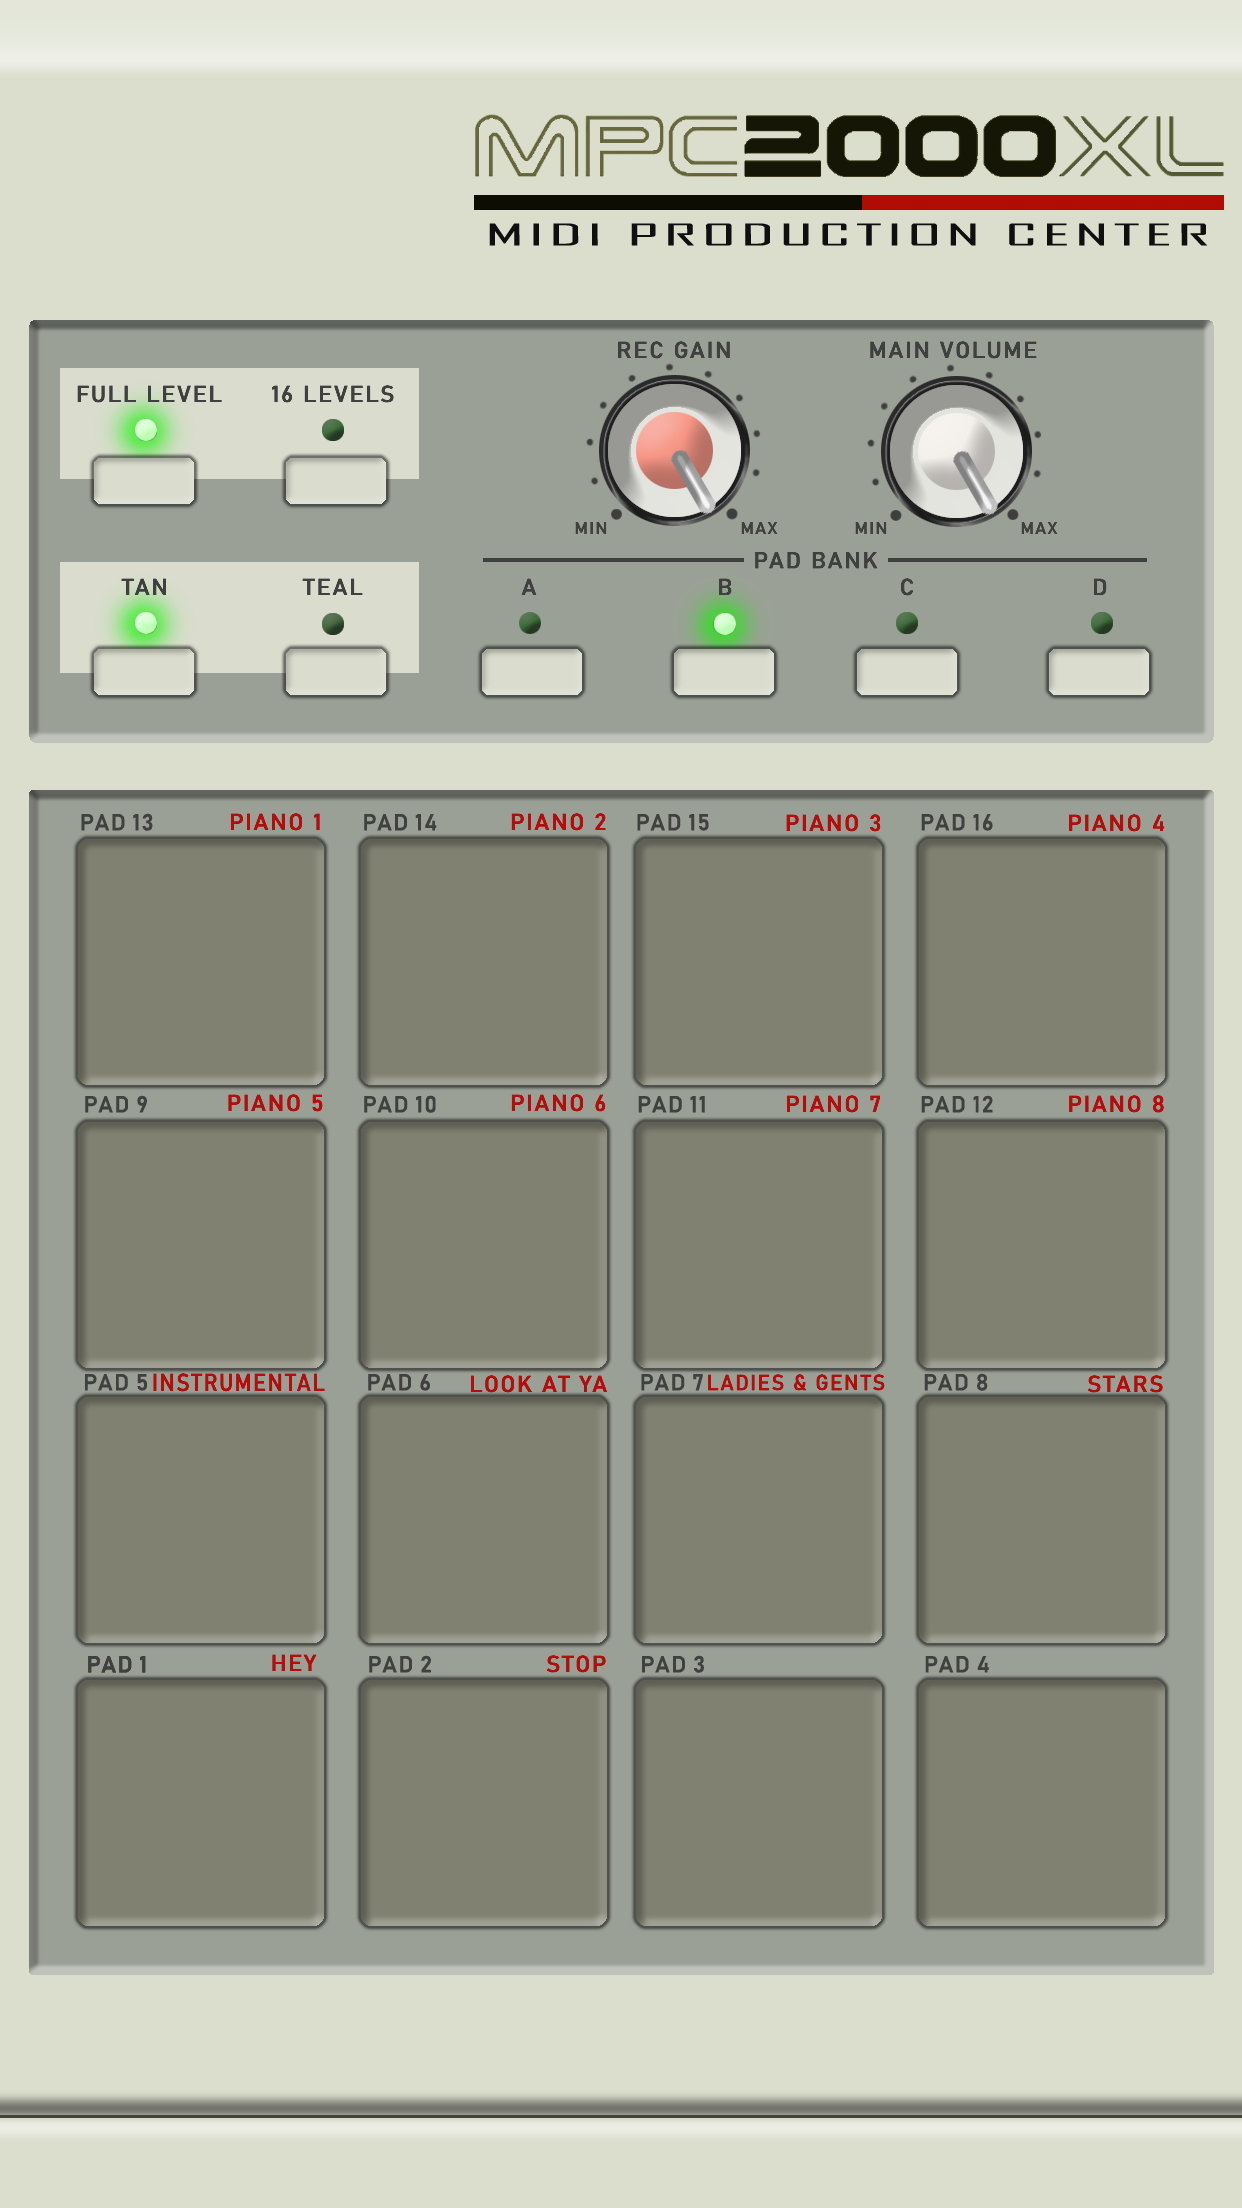
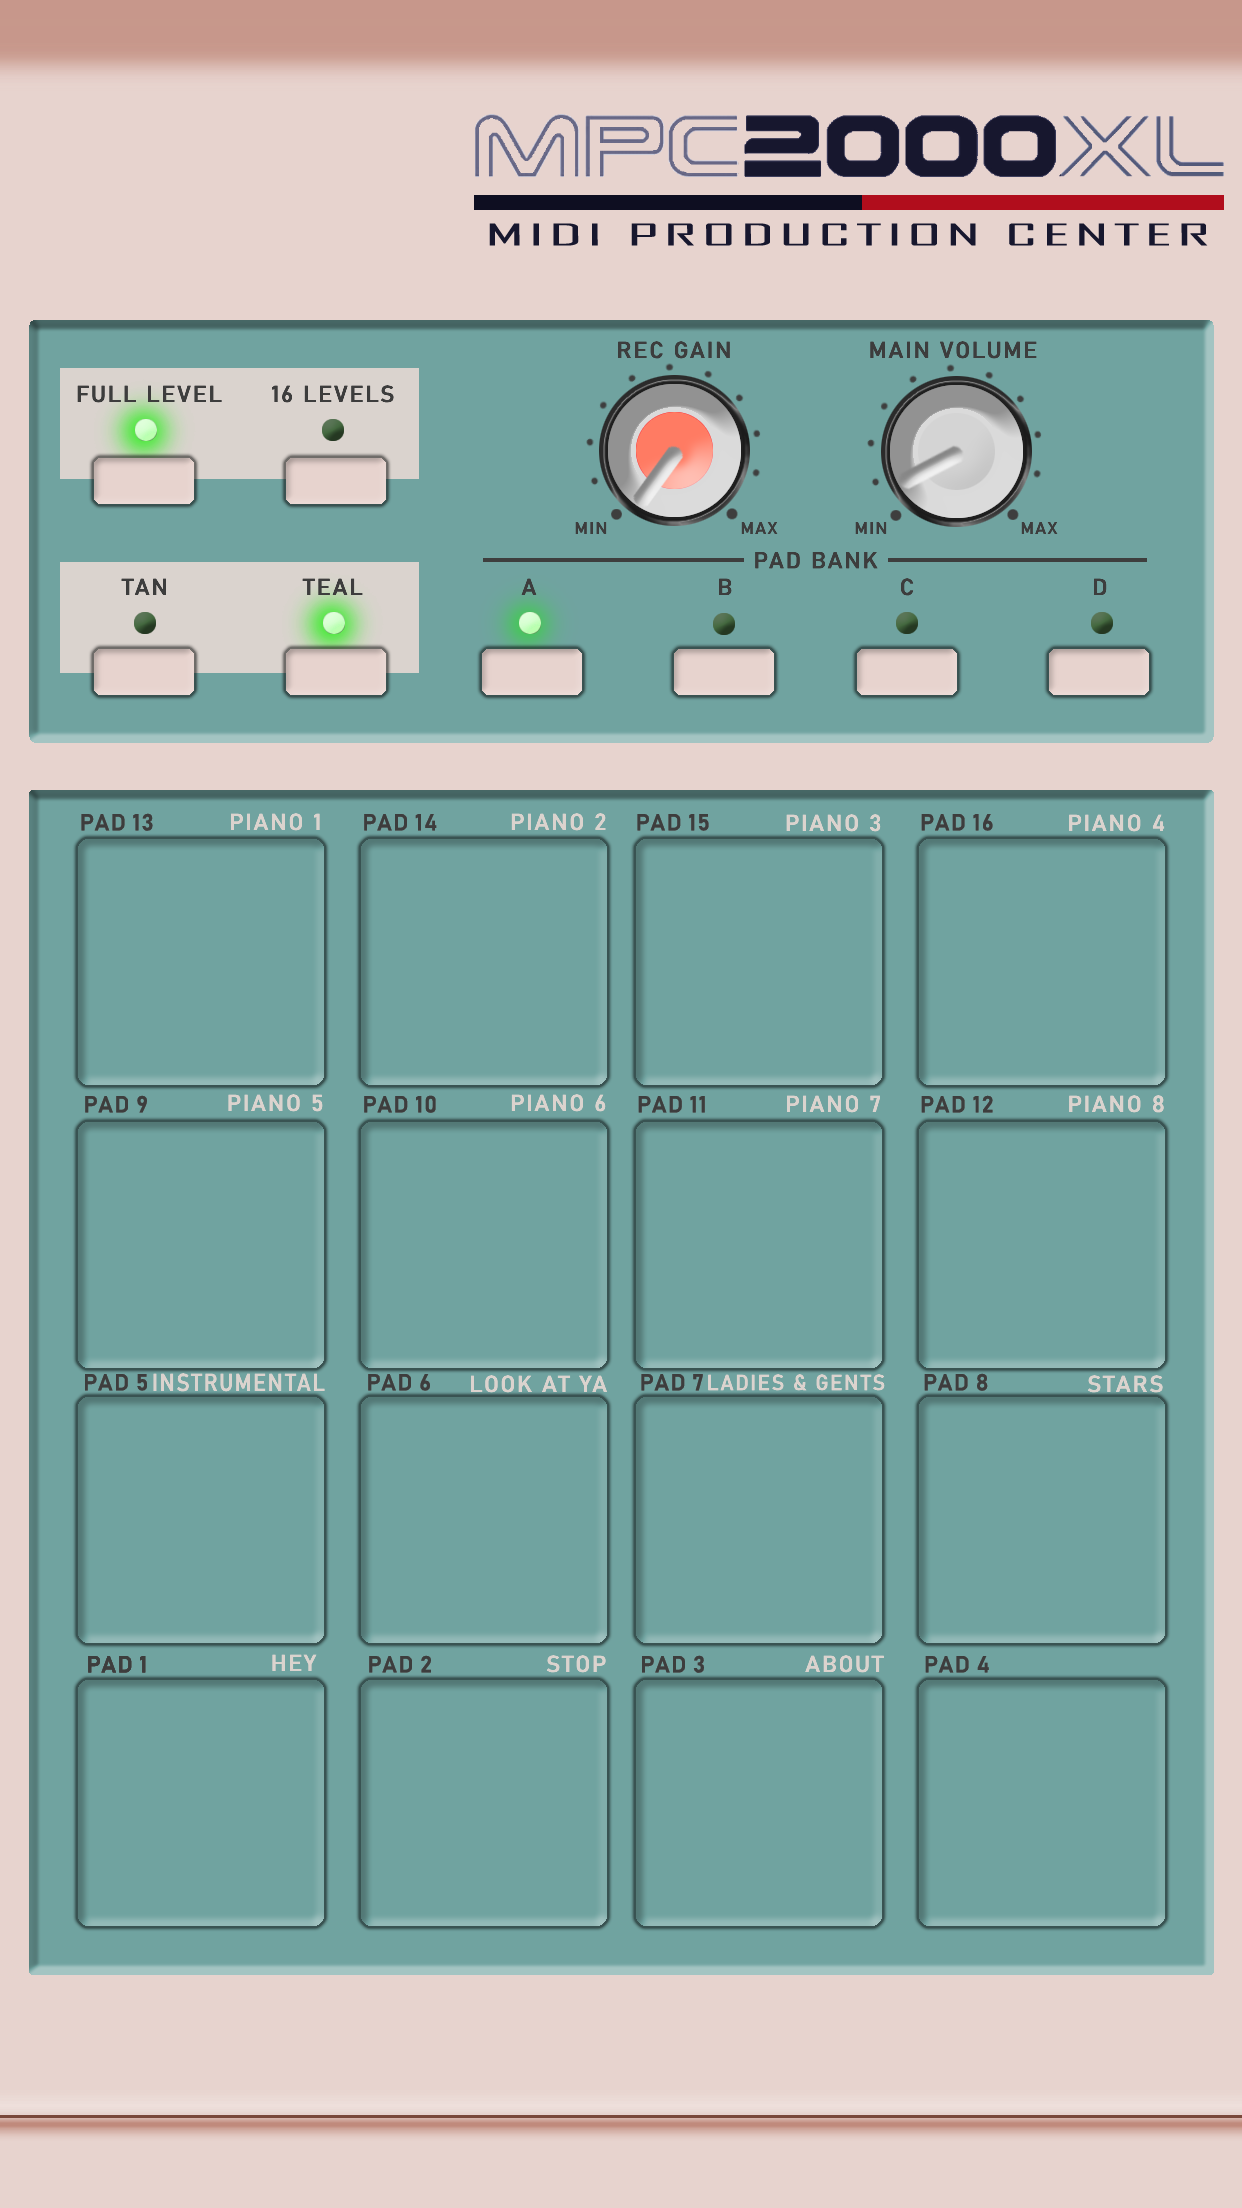
Add files via upload

diff --git a/index.html b/index.html
@@ -39,7 +39,7 @@
             border: none;
             padding: 10px;
             cursor: pointer;
-            z-index: 10; /* Ensure buttons are above the image */
+            z-index: 10;
         }
 
         #buttonImage1 {
@@ -82,31 +82,31 @@
             height: var(--button-size);
         }
 
-        /* Modal styles */
         .modal {
-            display: none; /* Hidden by default */
+            display: none; 
             position: fixed;
-            z-index: 100; /* On top */
+            z-index: 100; 
             left: 0;
             top: 0;
             width: 100%;
             height: 100%;
             overflow: auto;
-            background-color: rgba(0, 0, 0, 0.5); /* Black background with opacity */
+            background-color: rgba(0, 0, 0, 0.5); 
         }
 
         .modal-content {
-            background-color: white;
-            margin: 15% auto;
+            background-color: rgb(127, 190, 177);
+            font-family: Arial, Helvetica, sans-serif;
+            margin: 35% auto;
             padding: 20px;
-            border: 1px solid #888;
             width: 80%;
             text-align: center;
         }
 
         .close-button {
-            background-color: #f44336;
+            background-color: #c50021;
             color: white;
+            font-family: Arial, Helvetica, sans-serif;
             padding: 10px 20px;
             cursor: pointer;
             border: none;
@@ -121,7 +121,6 @@
     <button class="image-button" id="buttonImage2"></button>
     <img id="gridImage" src="AKAI MPC 2000 TEAL.png" alt="Grid Image" class="image">
     <div class="grid-container">
-        <!-- Existing buttons -->
         <button class="grid-item" data-audio-index="0">1</button>
         <button class="grid-item" data-audio-index="1">2</button>
         <button class="grid-item" data-audio-index="2">3</button>
@@ -136,17 +135,14 @@
         <button class="grid-item" data-audio-index="11">12</button>
         <button class="grid-item" data-audio-index="12">13</button>
         <button class="grid-item" onclick="pauseAudio9()">Pause 9</button>
-
-        <!-- New buttons -->
         <button class="grid-item" onclick="openModal()">Message</button>
-        <button class="grid-item" onclick="openVideo()">Play Video</button>
+
     </div>
 </div>
 
-<!-- Modal HTML -->
 <div id="myModal" class="modal">
     <div class="modal-content">
-        <p>Use the TAN/TEAL buttons to switch skins<br>Turn Silent Mode OFF<br>Make sure you are zoomed at 100%<br>DM @kendall.makes.stuff on IG with feedback</p>
+        <p>ABOUT<br><br>Use the TAN/TEAL buttons to switch skins<br>Turn Silent Mode OFF<br>Make sure you are zoomed at 100%<br>DM @kendall.makes.stuff on IG with feedback</p>
         <button class="close-button" onclick="closeModal()">OK</button>
     </div>
 </div>
@@ -250,7 +246,6 @@
         button.addEventListener('touchend', handleTouchEnd, { passive: false });
     });
 
-    /* Modal functionality */
     function openModal() {
         document.getElementById('myModal').style.display = 'block';
     }
@@ -259,7 +254,6 @@
         document.getElementById('myModal').style.display = 'none';
     }
 
-    /* Open video in a new tab */
     function openVideo() {
         window.open('vma.mp4', '_blank');
     }
